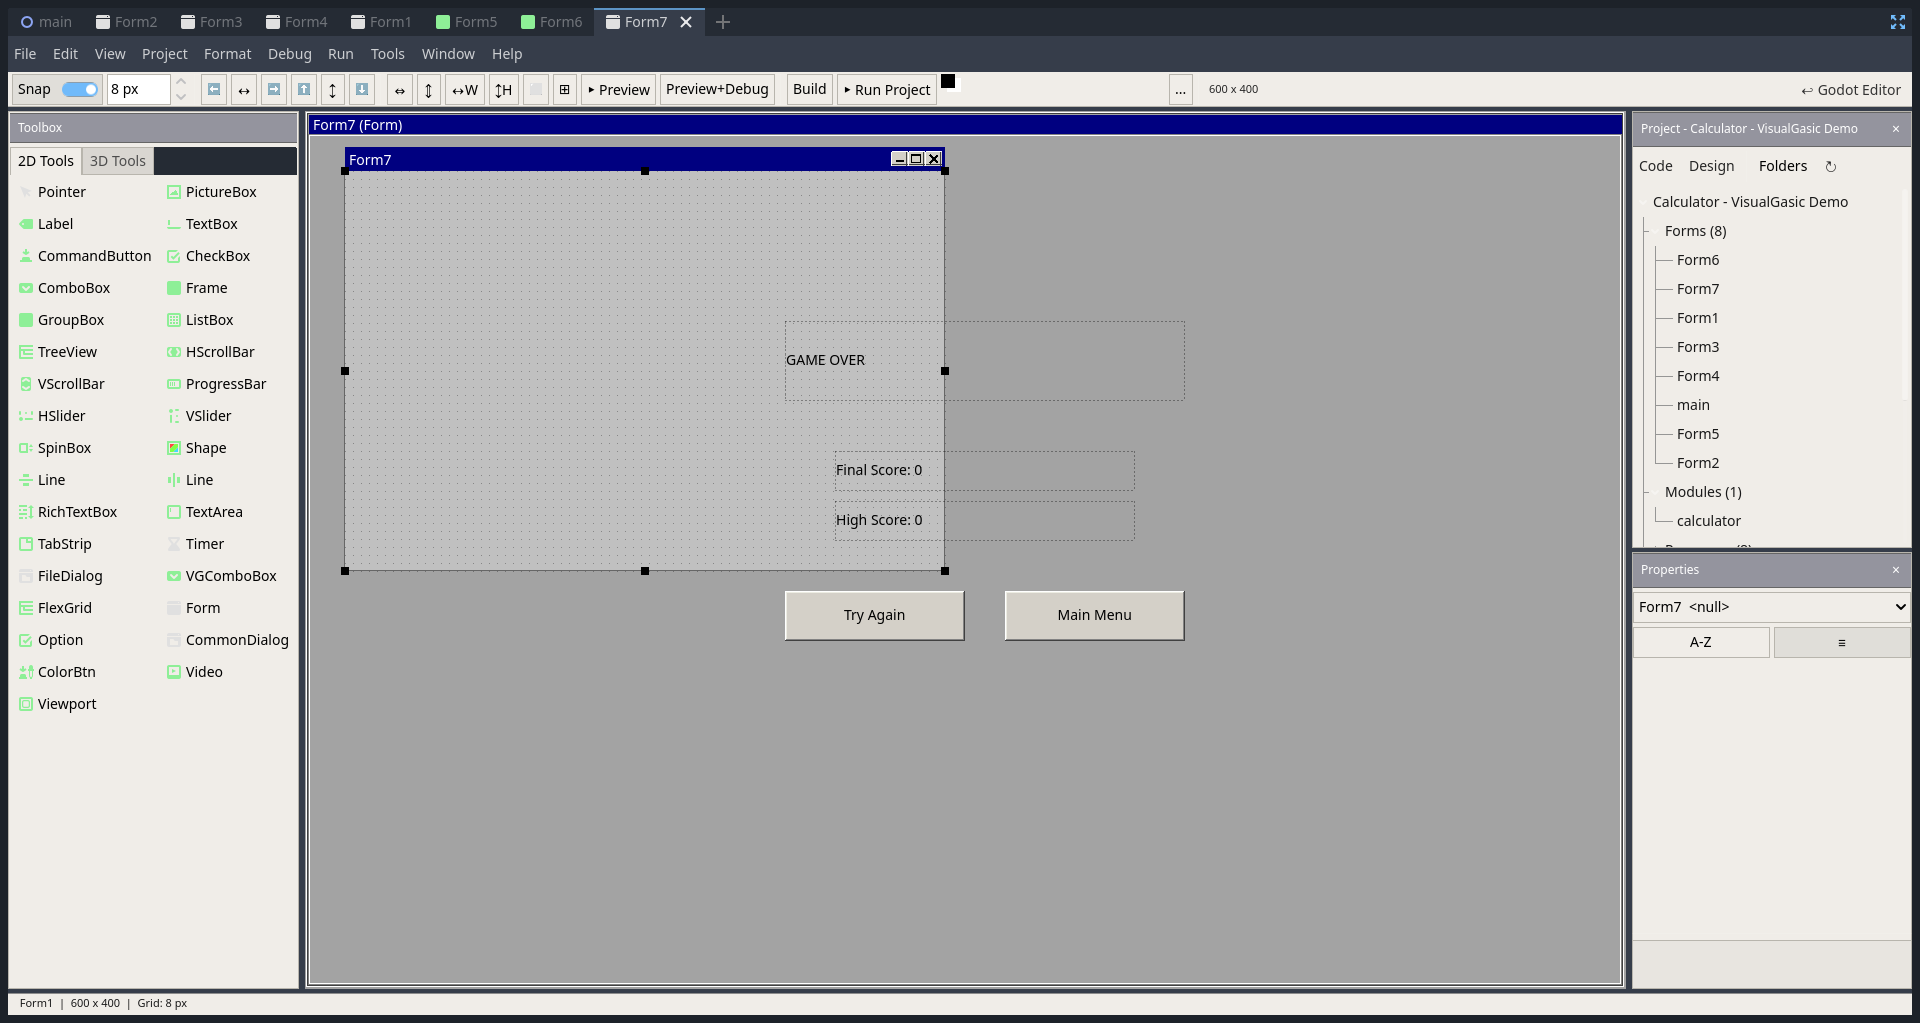
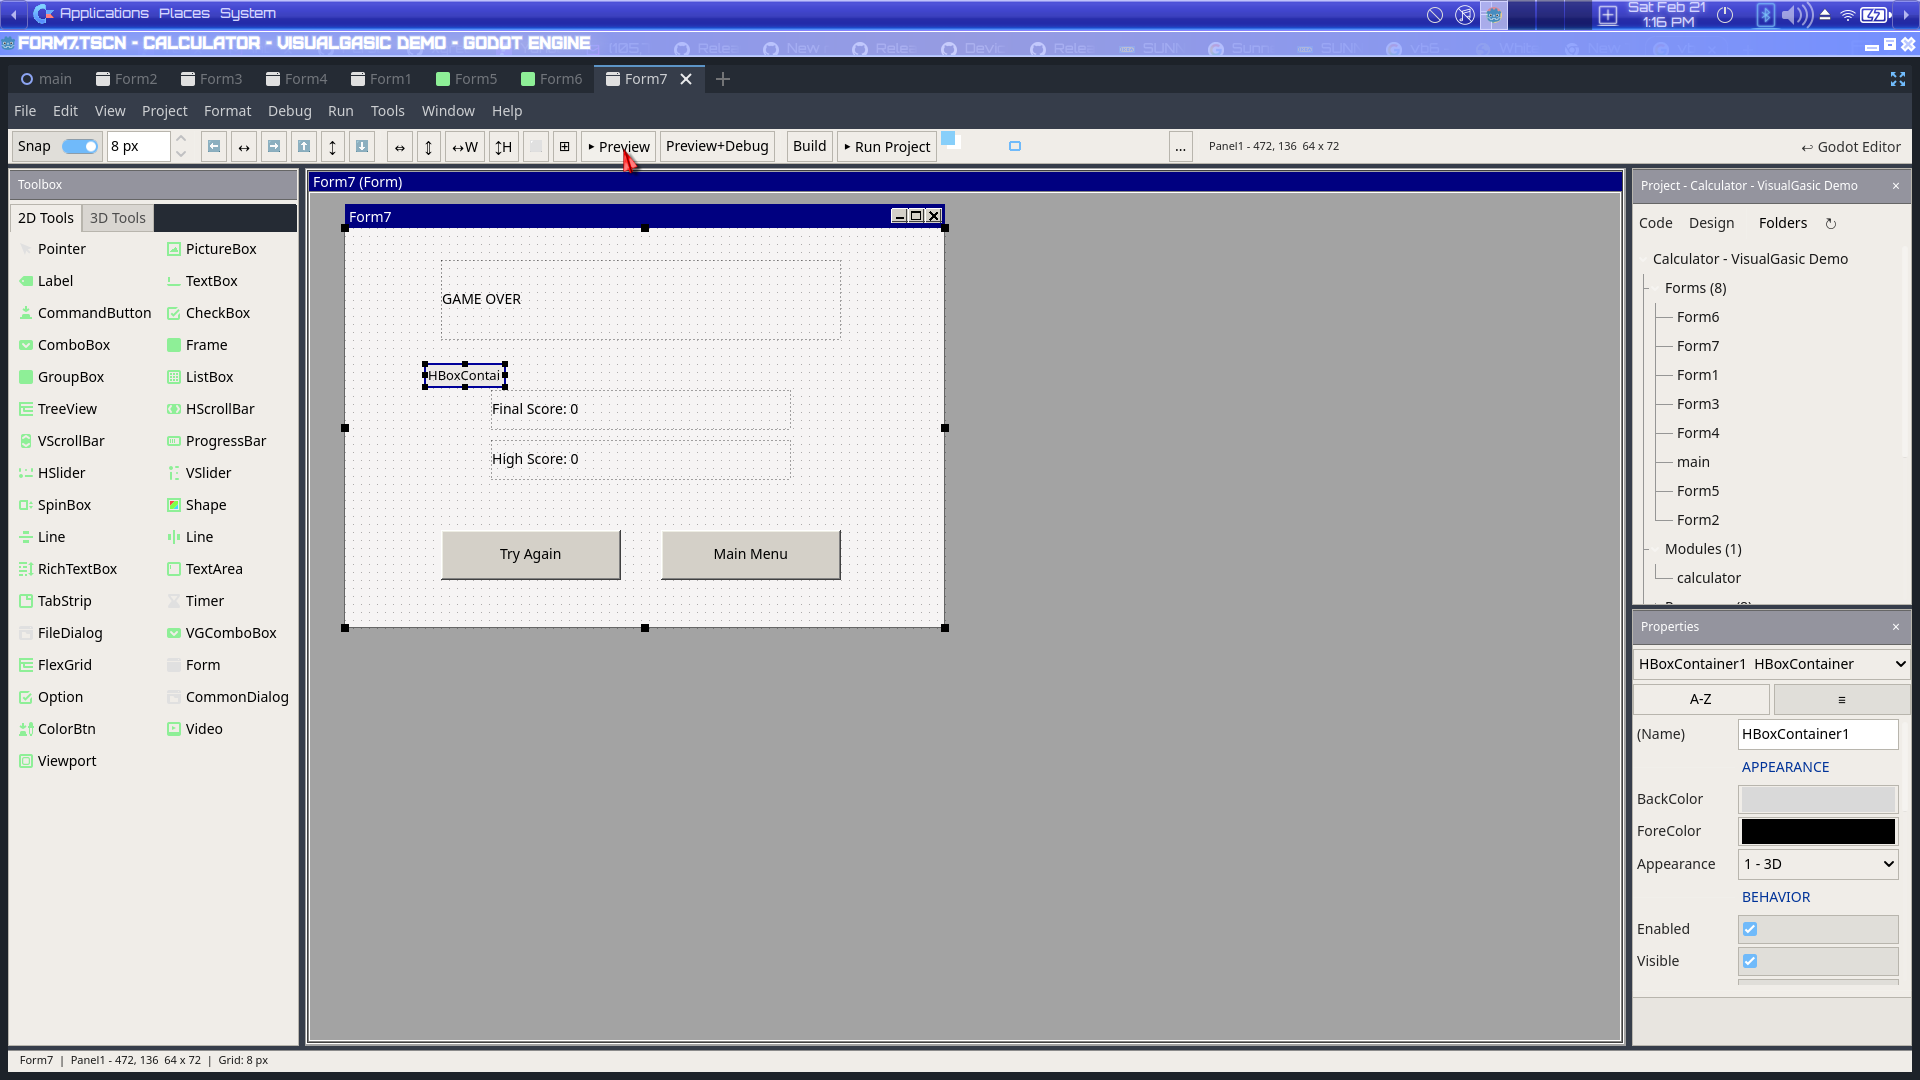
Update form designer screenshot and release notes image URL

diff --git a/RELEASE_NOTES_v2.8.0.md b/RELEASE_NOTES_v2.8.0.md
@@ -12,7 +12,7 @@ This release introduces the **C++ Form Designer** — a fully custom WYSIWYG for
 
 ### 🖼 VB6-Style Form Designer IDE
 
-![Form Designer IDE](docs/screenshots/form_designer_ide.png)
+![Form Designer IDE](https://raw.githubusercontent.com/xgreenrx-star/VisualGasic/v2.8.0/docs/screenshots/form_designer_ide.png)
 
 The new form designer features:
 - **40+ VB6 controls** in a tabbed Toolbox (2D Tools / 3D Tools)
